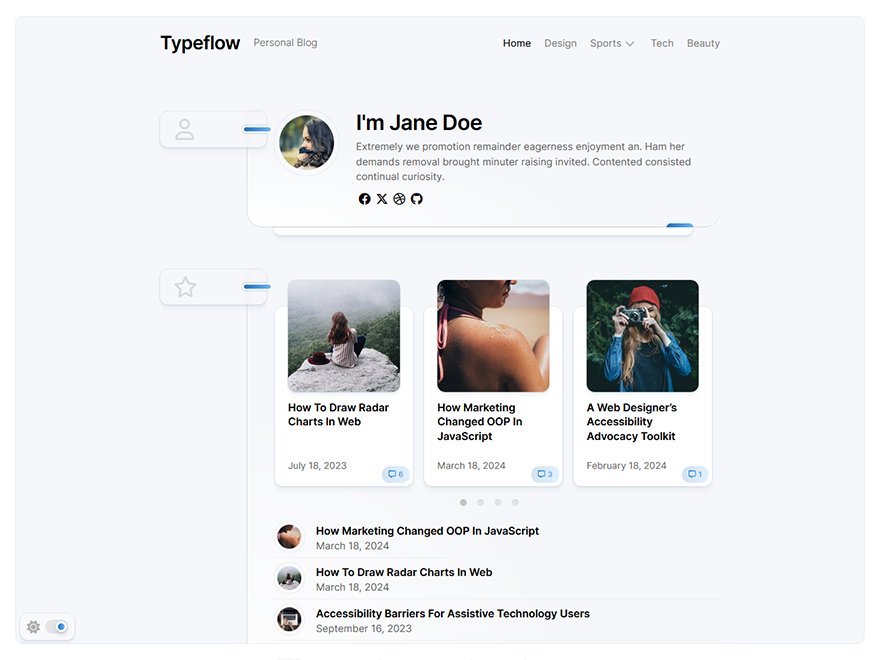
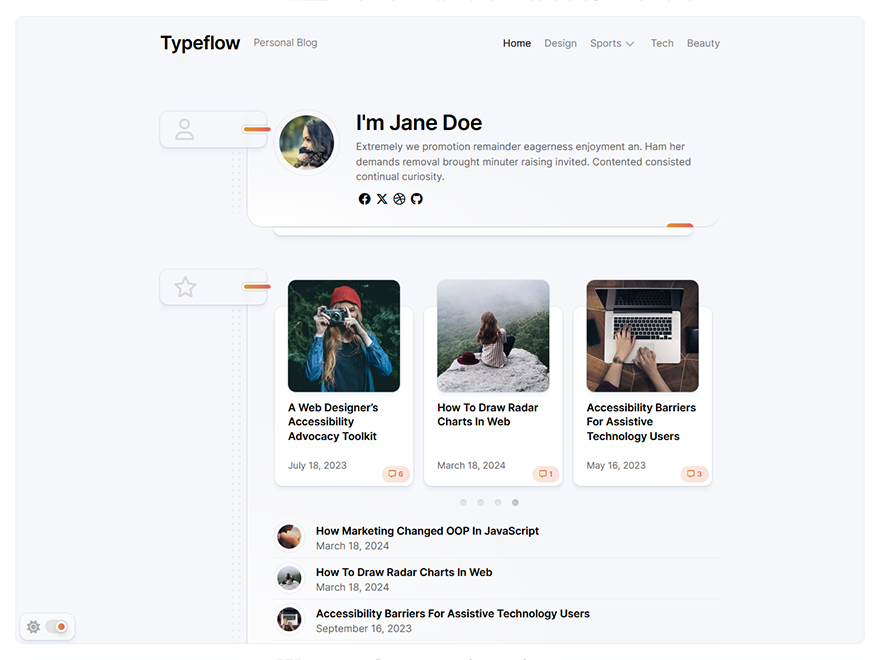
1.0.3

diff --git a/style.css b/style.css
@@ -1,7 +1,7 @@
 /*
 Theme Name: Typeflow
 Theme URI: http://alx.media/themes/typeflow/
-Version: 1.0.2
+Version: 1.0.3
 Requires at least: 5.0
 Requires PHP: 5.6
 Tested up to: 6.4
@@ -73,7 +73,7 @@ ol, ul { box-sizing: content-box; }
 input, textarea, button, select, label { font-family: inherit; }
 .themeform input:not([type="submit"]):not([type="checkbox"]), 
 .themeform textarea { background: transparent; color: rgba(0,0,0,0.5); font-size: 14px; width: 100%; box-sizing: border-box; display: block; border-radius: 12px; padding: 8px 10px; border: 1px solid rgba(0,0,0,0.1); line-height: 1.5em; }
-.themeform input[type="submit"] { background: linear-gradient(90deg, #1e73be 0%, #6ab7fb 100%); color: #fff; font-weight: 600; font-size: 14px; border: 0; cursor: pointer; border-radius: 12px; padding: 12px 14px; display: block;  }
+.themeform input[type="submit"] { background: linear-gradient(90deg, #dd9933 0%, #e16767 100%); color: #fff; font-weight: 600; font-size: 14px; border: 0; cursor: pointer; border-radius: 12px; padding: 12px 14px; display: block;  }
 .themeform textarea:focus, 
 .themeform input:not([type="submit"]):focus { outline: 1px solid rgba(0,0,0,0.2); border-color: rgba(0,0,0,0.2); color: rgba(0,0,0,0.75); }
 
@@ -439,15 +439,15 @@ body { background: #fff; }
 .card-comments span { transition: all 0.2s ease; }
 .card-comments i { margin-right: 4px; position: relative; }
 .card-comments strong,
-.card-comments i { background: linear-gradient(90deg, #1e73be 0%, #6ab7fb 100%); background-clip: text!important; color: transparent; -webkit-text-fill-color: transparent; }
-.card-comments:after { content:""; background: linear-gradient(90deg, #1e73be 0%, #6ab7fb 100%); position: absolute; top: 0; right: 0; bottom: 0; left: 0; border-radius: 12px; opacity: 0.2; }
+.card-comments i { background: linear-gradient(90deg, #dd9933 0%, #e16767 100%); background-clip: text!important; color: transparent; -webkit-text-fill-color: transparent; }
+.card-comments:after { content:""; background: linear-gradient(90deg, #dd9933 0%, #e16767 100%); position: absolute; top: 0; right: 0; bottom: 0; left: 0; border-radius: 12px; opacity: 0.2; }
 
 .stickywrap { position: relative; }
 .stickywrap:before { content:""; background: radial-gradient(at bottom left, #fff, transparent, transparent); border-left: 1px solid rgba(0,0,0,0.12); border-bottom: 1px solid rgba(0,0,0,0.12); height: 100%; border-radius: 24px; position: absolute; left: 130px; right: 0; top: 0; bottom: 0; pointer-events: none; }
 .stickywrap:after { content:""; background: url(img/dot-pattern-dark-2x.png) repeat top left; background-size: 10px 10px; position: absolute; left: 101px; top: 64px; width: 20px; bottom: 0; z-index: -1; opacity: 0.06; mask-image: linear-gradient(0deg, transparent, #000 40%, #000 100%, transparent 100% ); }
 .stickywrap:nth-child(1):before { border-bottom: 0; }
 .stickywrap .stickywrap-heading { position: sticky; top: 28px; height: 60px; display: flex; align-items: center; font-size: 32px; letter-spacing: -0.04em; font-weight: 600; line-height: 1.3em; text-transform: uppercase; color: rgba(0,0,0,0.12); }
-.stickywrap .stickywrap-heading:before { content:""; width: 40px; height: 6px; background: linear-gradient(90deg, #1e73be 0%, #6ab7fb 100%); position: absolute; border-radius: 12px; top: 27px; left: 126px; z-index: 2; }
+.stickywrap .stickywrap-heading:before { content:""; width: 40px; height: 6px; background: linear-gradient(90deg, #dd9933 0%, #e16767 100%); position: absolute; border-radius: 12px; top: 27px; left: 126px; z-index: 2; }
 .stickywrap .stickywrap-heading:after { content: ""; border: 1px solid rgba(0,0,0,0.12); border-right: 0!important; width: 37px; height: 12px; position: absolute; border-radius: 12px 0 0 12px; top: 23px; left: 122px; z-index: 1; }
 .stickywrap .stickywrap-heading a { color: rgba(0,0,0,0.12); }
 .admin-bar .stickywrap .stickywrap-heading { top: 60px; }
@@ -457,7 +457,7 @@ body { background: #fff; }
 .stickywrap .stickywrap-heading-inner { display: block; width: 12px; height: 12px; border-radius: 100%; position: absolute; top: 23px; left: 123px; z-index: 3; }
 .stickywrap .stickywrap-heading-inner i { font-size: 14px; color: #fff; display: block; margin-top: 1px; } 
 .stickywrap .stickywrap-inner { margin-left: 130px; padding-left: 40px; margin-bottom: 60px; margin-top: -60px; position: relative; }
-.stickywrap .stickywrap-inner:before { background: linear-gradient(90deg, #1e73be 0%, #6ab7fb 100%); content:""; width: 40px; height: 6px; border-radius: 12px 12px 0 0; position: absolute; right: 40px; bottom: -1px; }
+.stickywrap .stickywrap-inner:before { background: linear-gradient(90deg, #dd9933 0%, #e16767 100%); content:""; width: 40px; height: 6px; border-radius: 12px 12px 0 0; position: absolute; right: 40px; bottom: -1px; }
 
 .stickywrap .blog-card:last-child { border-bottom: 0; padding-bottom: 24px; }
 .stickywrap .featured-card:last-child { border-bottom: 0; padding-bottom: 40px; }
@@ -546,7 +546,7 @@ body.single .small-heading { margin: 20px 0; font-size: 16px; }
 #theme-toggle .fa-sun { display: block; }
 #theme-toggle .fa-moon { display: none; }
 #theme-toggle-btn { background: rgba(0,0,0,0.08); box-shadow: inset 0 1px 0 rgba(0,0,0,0.06); position: relative; display: block; width: 34px; height: 20px; margin-left: 28px; border-radius: 16px; }
-#theme-toggle-btn:before { background: linear-gradient(90deg, #1e73be 0%, #6ab7fb 100%); transition: all .25s; border: 3px solid #ffffff; box-shadow: 0px 4px 8px rgba(0, 0, 0, 0.16); content: ""; position: absolute; top: 50%; left: 16px; top: 2px; width: 10px; height: 10px; border-radius: 50%; }
+#theme-toggle-btn:before { background: linear-gradient(90deg, #dd9933 0%, #e16767 100%); transition: all .25s; border: 3px solid #ffffff; box-shadow: 0px 4px 8px rgba(0, 0, 0, 0.16); content: ""; position: absolute; top: 50%; left: 16px; top: 2px; width: 10px; height: 10px; border-radius: 50%; }
 body.dark #theme-toggle { background-color: rgba(255,255,255,0.1); box-shadow: inset 0 1px 0 rgba(255,255,255,0.06); -webkit-backdrop-filter: blur(20px); backdrop-filter: blur(20px); }
 body.dark #theme-toggle i { color: rgba(255,255,255,0.5); }
 body.dark #theme-toggle .fa-sun { display: none; }
@@ -794,7 +794,7 @@ body.dark #theme-toggle-btn:before { border-color: #fff; top: 2px; left: 2px; }
 /* ------------------------------------ */
 .author-bio { background: transparent; margin: 40px 0; text-align: center; -webkit-backdrop-filter: blur(4px); backdrop-filter: blur(4px); box-shadow: 0 0 0 1px #12376914,0 1px 1px #1237690a,0 3px 3px #12376908,0 6px 4px #12376905,0 11px 4px #12376903; border-radius: 12px; position: relative; padding: 30px; }
 .author-bio .bio-avatar { width: 80px; height: auto; position: relative; display: inline-block; margin-top: -80px; }
-.author-bio .bio-avatar:after { background: linear-gradient(90deg, #1e73be 0%, #6ab7fb 100%); position: absolute; right: -4px; bottom: -4px; padding: 8px 8px; content: "\f303"; color: #fff; font-size: 10px; line-height: 12px; width: 12px; font-style: normal; font-family: "Font Awesome 6 Free"; font-weight: 900; text-align: center; border-radius: 100%; }
+.author-bio .bio-avatar:after { background: linear-gradient(90deg, #dd9933 0%, #e16767 100%); position: absolute; right: -4px; bottom: -4px; padding: 8px 8px; content: "\f303"; color: #fff; font-size: 10px; line-height: 12px; width: 12px; font-style: normal; font-family: "Font Awesome 6 Free"; font-weight: 900; text-align: center; border-radius: 100%; }
 .author-bio .bio-avatar img { display: block; width: 100%; height: auto; border-radius: 100%; }
 .author-bio p { margin-bottom: 8px; }
 .author-bio .bio-name { color: #000; font-size: 19px; font-weight: 600; margin: 10px 0; }
@@ -1024,7 +1024,7 @@ body.dark #theme-toggle-btn:before { border-color: #fff; top: 2px; left: 2px; }
 
 /* post author & admin comment */
 .commentlist li.bypostauthor > .comment-body:after,
-.commentlist li.comment-author-admin > .comment-body:after { background: linear-gradient(90deg, #1e73be 0%, #6ab7fb 100%); display: block; position: absolute; content: "\f303"; color: #fff; line-height: 12px; width: 12px; font-style: normal; font-family: "Font Awesome 6 Free"; font-weight: 900; text-align: center; }
+.commentlist li.comment-author-admin > .comment-body:after { background: linear-gradient(90deg, #dd9933 0%, #e16767 100%); display: block; position: absolute; content: "\f303"; color: #fff; line-height: 12px; width: 12px; font-style: normal; font-family: "Font Awesome 6 Free"; font-weight: 900; text-align: center; }
 .commentlist li.comment-author-admin > .comment-body:after { content: "\f005"; /* star for admin */ }
 .commentlist li.bypostauthor > .comment-body:after,
 .commentlist li.comment-author-admin > .comment-body:after { top: 32px; left: -28px; font-size: 8px; padding: 2px; border-radius: 100%; }

diff --git a/functions/dynamic-styles.php b/functions/dynamic-styles.php
@@ -133,7 +133,7 @@ body.boxed #header { max-width: '.esc_attr( get_theme_mod('container-width') ).'
 				'."\n";
 			}
 			// gradient left
-			if ( get_theme_mod('gradient-left','#1e73be') != '#1e73be' ) {
+			if ( get_theme_mod('gradient-left','#dd9933') != '#dd9933' ) {
 				$styles .= '
 .stickywrap .stickywrap-heading:before,
 .stickywrap .stickywrap-inner:before,
@@ -148,7 +148,7 @@ body.boxed #header { max-width: '.esc_attr( get_theme_mod('container-width') ).'
 				'."\n";
 			}
 			// gradient right
-			if ( get_theme_mod('gradient-right','#6ab7fb') != '#6ab7fb' ) {
+			if ( get_theme_mod('gradient-right','#e16767') != '#e16767' ) {
 				$styles .= '
 .stickywrap .stickywrap-heading:before,
 .stickywrap .stickywrap-inner:before,

diff --git a/functions/theme-options.php b/functions/theme-options.php
@@ -491,7 +491,7 @@ Kirki::add_field( 'typeflow_theme', array(
 	'settings'		=> 'gradient-left',
 	'label'			=> esc_html__( 'Gradient Left', 'typeflow' ),
 	'section'		=> 'styling',
-	'default'		=> '#1e73be',
+	'default'		=> '#dd9933',
 ) );
 // Styling: Gradient Right
 Kirki::add_field( 'typeflow_theme', array(
@@ -499,7 +499,7 @@ Kirki::add_field( 'typeflow_theme', array(
 	'settings'		=> 'gradient-right',
 	'label'			=> esc_html__( 'Gradient Right', 'typeflow' ),
 	'section'		=> 'styling',
-	'default'		=> '#6ab7fb',
+	'default'		=> '#e16767',
 ) );
 // Styling: Background Color
 Kirki::add_field( 'typeflow_theme', array(
